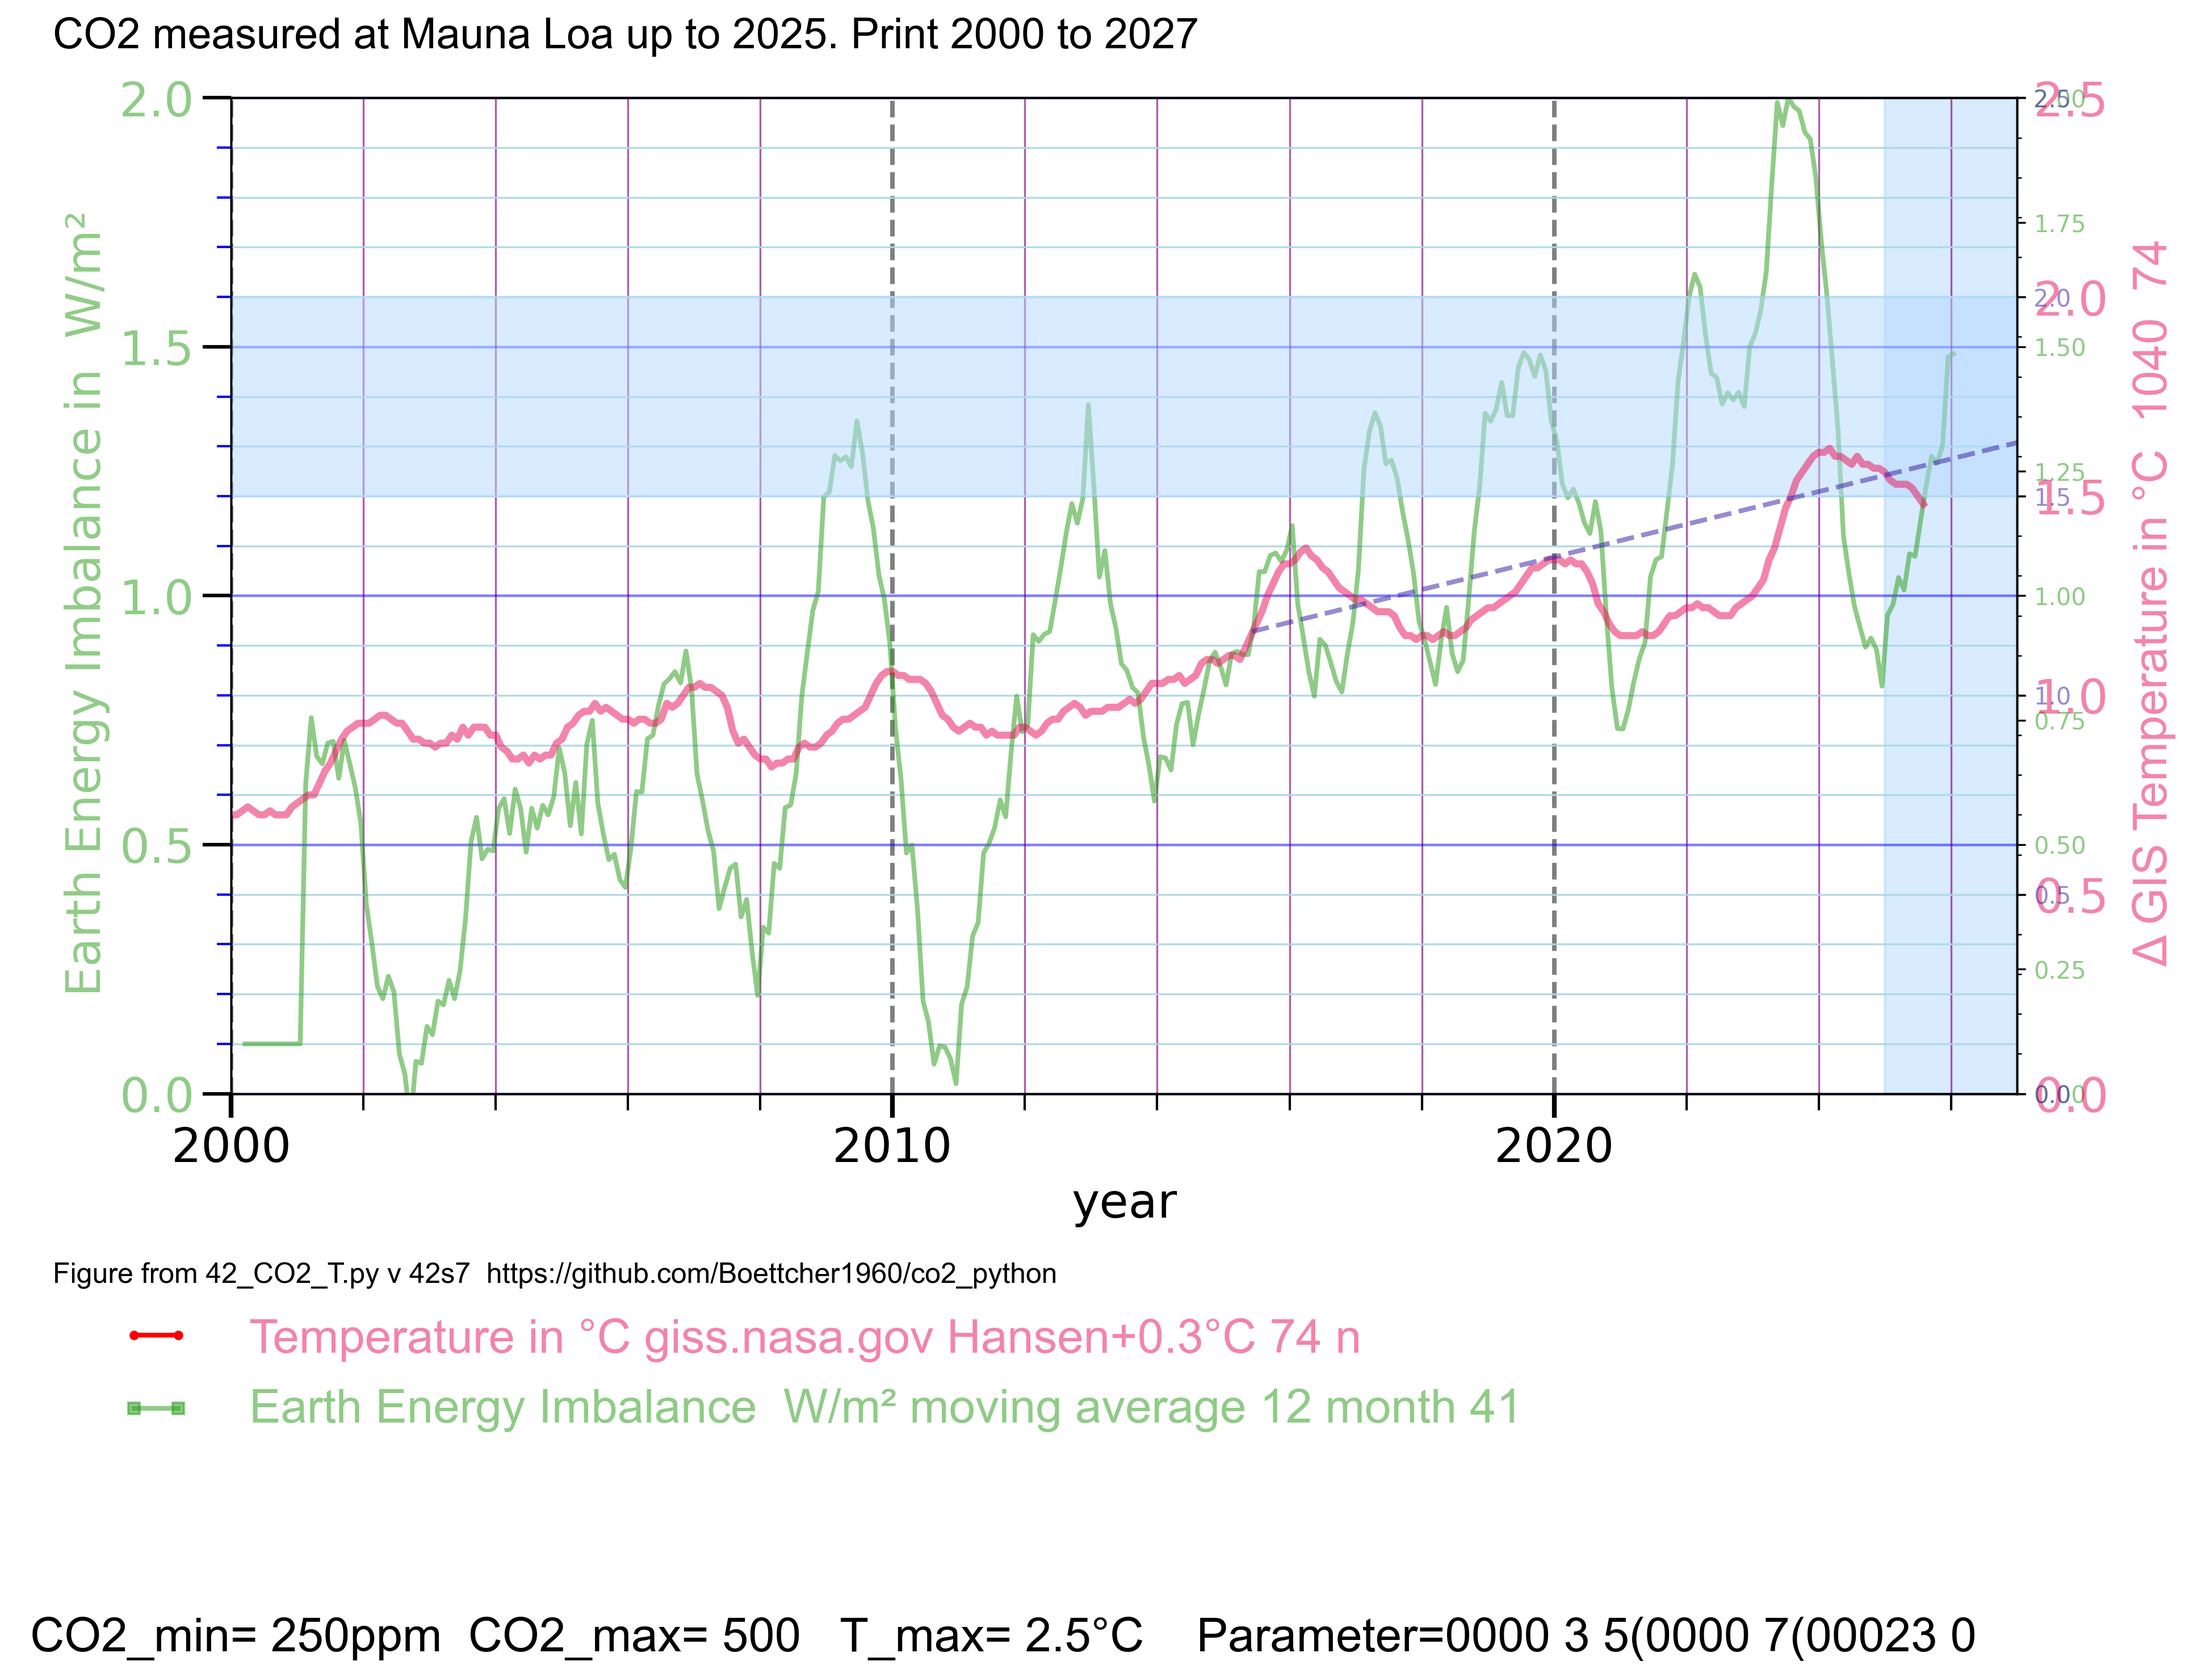
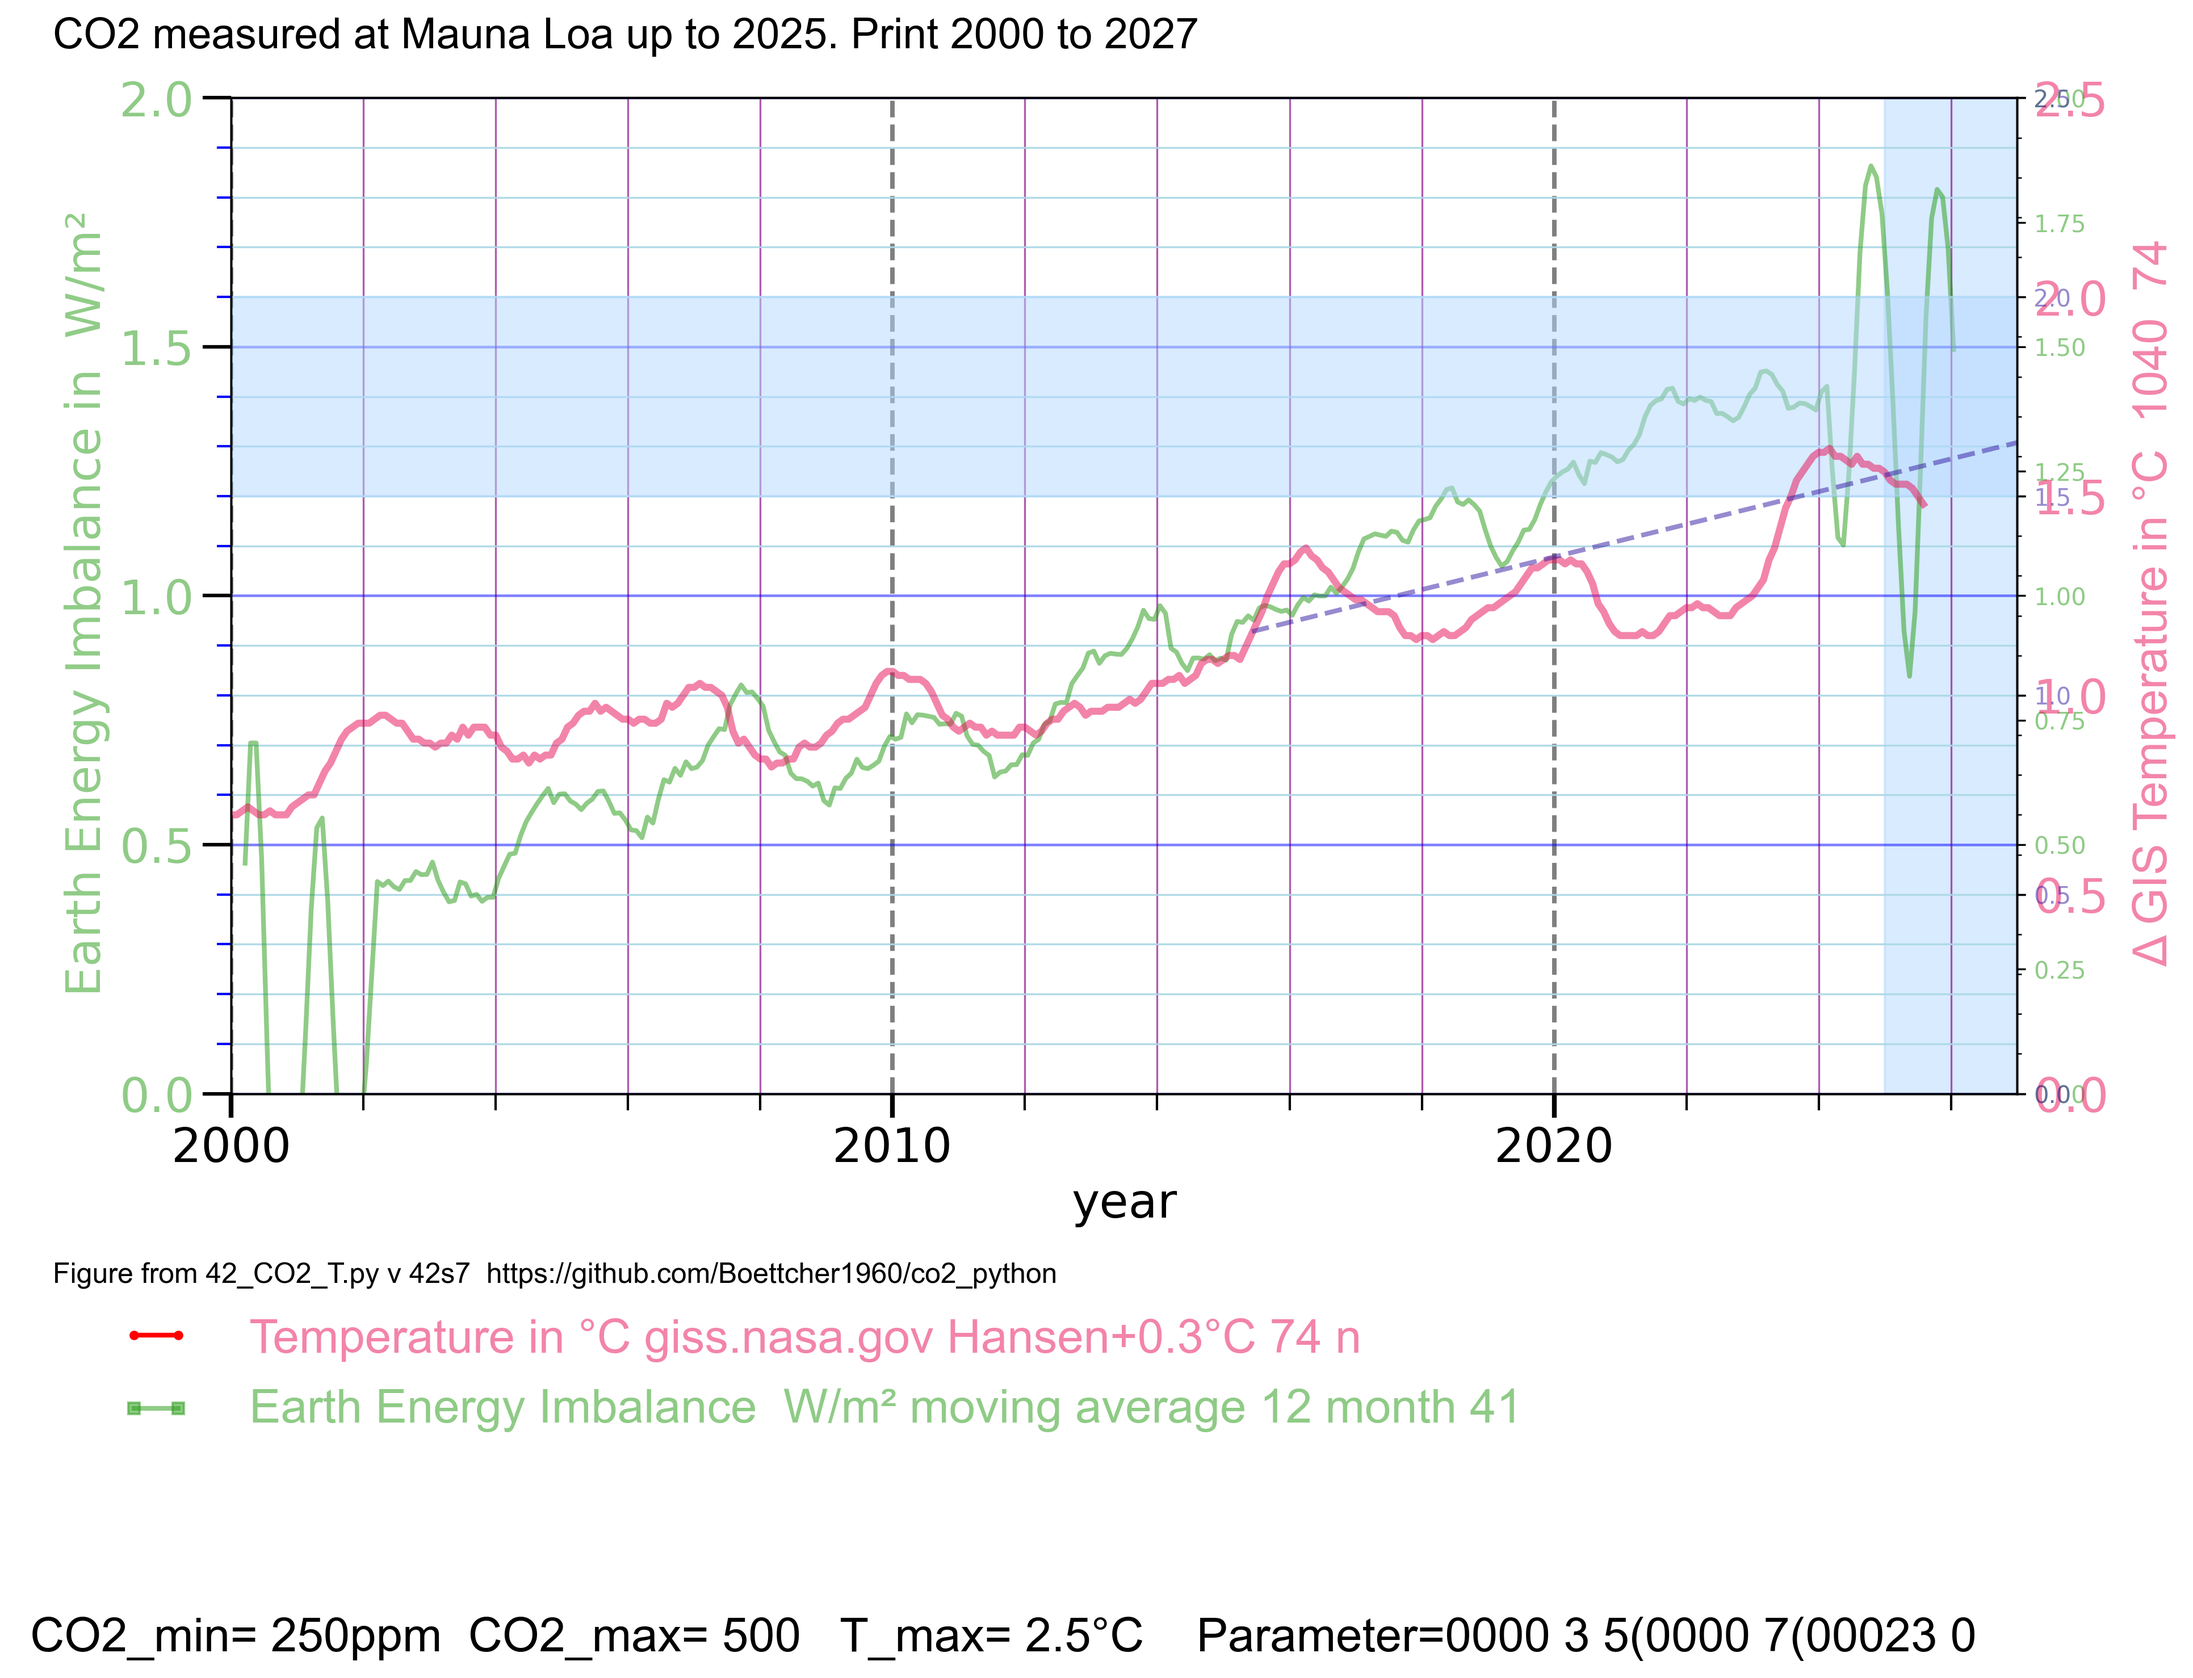
v = "42s7" #  48bug, csv41g12_ceres.csv

diff --git a/42_CO2_T.py b/42_CO2_T.py
@@ -686,7 +686,7 @@ def save_with_48month_average(df, input_filename, output_filename):
     return df_with_avg
     # end 4.1.6 CERES function 3
 
-# 4.2.48
+# 4.1.7 works
 def calculate_48month_average(input_csv, output_csv):
     """
     Calculate 48-month running average and save to CSV file
@@ -764,9 +764,38 @@ def calculate_48month_average(input_csv, output_csv):
     print(df_48month_avg.tail(10).to_string())
     
     return df_48month_avg
+    # end 4.1.7 works
 
-
-
+# 4.1.8 works
+def create_simple_48month_average(input_csv, output_csv):
+    """
+    Simplified version - creates a CSV with just date and 48-month average
+    """
+    # Read the data
+    df = pd.read_csv(input_csv)
+    df['date'] = pd.to_datetime(df['date'])
+    df = df.sort_values('date').reset_index(drop=True)
+    
+    # Calculate 48-month average
+    df['48month_avg'] = df['toa_net_flux_w_m2'].rolling(
+        window=48, 
+        center=True,
+        min_periods=24
+    ).mean()
+    
+    # Create simplified output with only essential columns
+    df_simple = df[['date', 'year', 'month', 'decimal_year', '48month_avg']].copy()
+    df_simple = df_simple.dropna()  # Remove rows without 48-month average
+    
+    # Save to CSV
+    df_simple.to_csv(output_csv, index=False, float_format='%.6f')
+    
+    print(f"\nSimplified 48-month average file created: {output_csv}")
+    print(f"Records with valid 48-month average: {len(df_simple)}")
+    print(f"Date range: {df_simple['date'].min()} to {df_simple['date'].max()}")
+    
+    return df_simple
+    # end 4.1.8
 
 
 # step1 download # https://ceres-tool.larc.nasa.gov/ord-tool/srbavg
@@ -782,7 +811,12 @@ if part41_ceres_eei == 12:
        'csv41a_in_CERES.txt', 
        'csv/csv41/csv41d12_ceres.csv'
 )
-if part41_ceres_eei == 48:   
+if part41_ceres_eei == 47:   
+   df_with_48avg = create_simple_48month_average(
+       'csv/csv41/csv41b_ceres.csv', 
+       'csv/csv41/csv41d47_ceres.csv'
+      )
+if part41_ceres_eei == 48:   # works
    df_with_48avg = calculate_48month_average(
        'csv/csv41/csv41b_ceres.csv', 
        'csv/csv41/csv41d48_ceres.csv'
@@ -791,8 +825,9 @@ if part41_ceres_eei == 48:
 # 4.3 plot_48month_running_average in df41
 if part41_ceres_eei > 0:
    p41_text ="Earth Energy Imbalance  W/m² moving average 12 month 41"
-   df41 = pd.read_csv("csv/csv41/csv41g48_ceres.csv") # 
-   #df41 = pd.read_csv("csv/csv41/csv41g12_ceres.csv") 
+   # eckig df41 = pd.read_csv("csv/csv41/csv41f46_ceres.csv") # 
+   # ok df41 = pd.read_csv("csv/csv41/csv41f47_ceres.csv") 
+   df41 = pd.read_csv("csv/csv41/csv41g12_ceres.csv") 
    # print(df41.head(22)) csv41g48_ceres
    ax41 = ax1.twinx()  # twinx(): Shares the same x-axis Adds a new y-axis on the right
    # part 7.4.6 add 0.3°C same as Hansen to GIS
